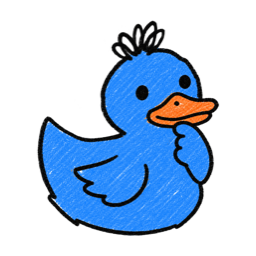
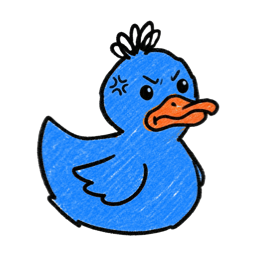
Add dedicated angry (error) and coding (edit) poses for all 9 colors

Changed region(s): [[0.125, 0.0625, 0.875, 0.9375]]

diff --git a/tools/generate_dock_icons.swift b/tools/generate_dock_icons.swift
@@ -237,13 +237,23 @@ for color in colors {
     let frontRaw = loadCGImage(frontSourcePath)
     let frontImage = cropToBBox(color == "yellow" ? keyCheckerboard(frontRaw) : frontRaw)
 
+    // Unlike the other poses, "angry" keeps the color prefix even for yellow.
+    let angrySourcePath = (colorDir as NSString).appendingPathComponent("angry_\(color)_dockling.png")
+    let angryImage = cropToBBox(loadCGImage(angrySourcePath))
+
+    // Like "angry", "coding" keeps the color prefix for every color, yellow included.
+    let codingSourcePath = (colorDir as NSString).appendingPathComponent("coding_\(color)_dockling.png")
+    let codingImage = cropToBBox(loadCGImage(codingSourcePath))
+
     renderOnCanvas(idleImage, outPath: outPath("idle.png"))
     renderOnCanvas(eurekaImage, outPath: outPath("eureka.png"))
     renderOnCanvas(frontImage, outPath: outPath("awaiting-input.png"))
+    renderOnCanvas(angryImage, outPath: outPath("error.png"))
+    renderOnCanvas(codingImage, outPath: outPath("edit.png"))
 
     // Every other "actively doing something" bucket shares the thinking pose
     // for now — per-bucket art is a later refinement once more poses exist.
-    for state in ["bash", "edit", "search", "other", "error"] {
+    for state in ["bash", "search", "other"] {
         renderOnCanvas(thinkingImage, outPath: outPath("\(state).png"))
     }
 }
